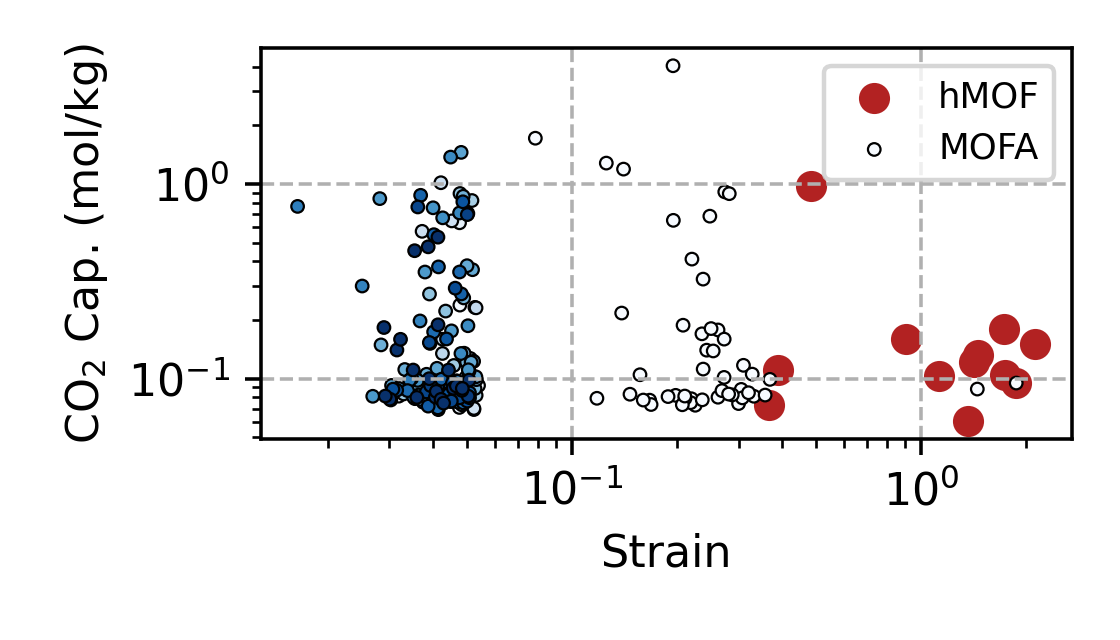
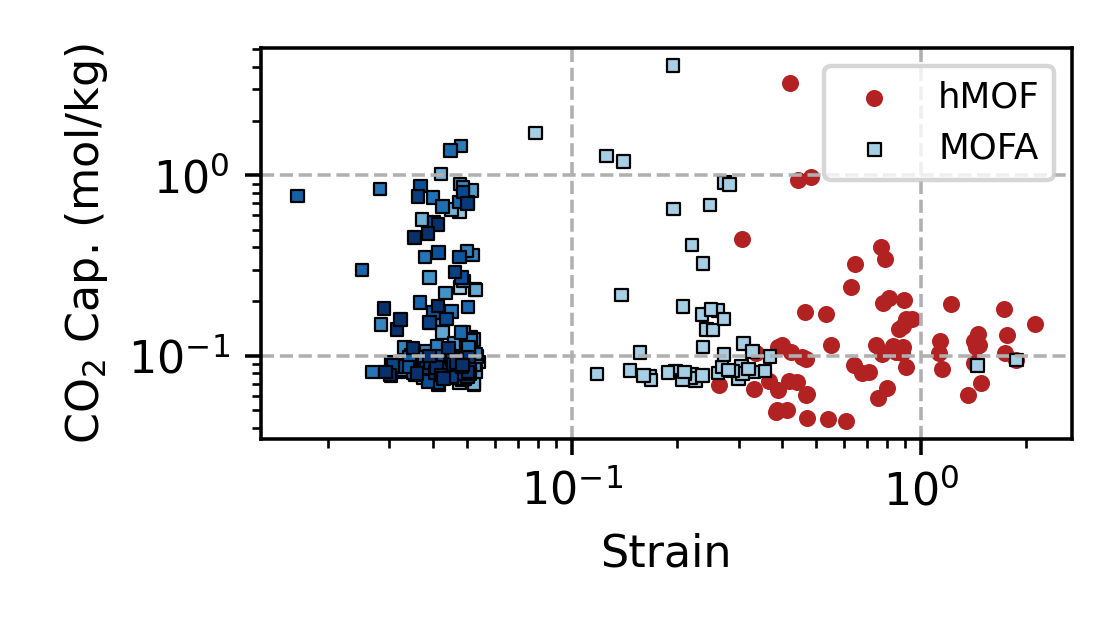
Update plots and codes to compute gas capacity

diff --git a/scripts/0_initialize-database/2_compute-gas-capacity.py b/scripts/0_initialize-database/2_compute-gas-capacity.py
@@ -14,12 +14,12 @@ if __name__ == "__main__":
     # Load what we've done already
     output_path = Path('capacity.jsonl')
     if output_path.exists():
-        done = dict(pd.read_json('charges.jsonl', lines=True)[['mof', 'steps']].values)
+        done = list(map(tuple, pd.read_json('capacity.jsonl', lines=True)[['mof', 'opt_steps']].values.tolist()))
     else:
         done = set()
 
     # Make a parsl executor
-    config = Config(executors=[HighThroughputExecutor(max_workers_per_node=6, cpu_affinity='block')])
+    config = Config(executors=[HighThroughputExecutor(max_workers_per_node=6, cpu_affinity='list:0:1:2:3:4:5')])
     with load(config):
 
         # Run what we have not
@@ -42,11 +42,15 @@ if __name__ == "__main__":
             futures.append(future)
 
         for future in tqdm(as_completed(futures), total=len(futures)):
-            mean, std = future.result()
-            with output_path.open('a') as fp:
-                print(json.dumps({
-                    'mof': future.row['mof'],
-                    'opt_steps': future.row['steps'],
-                    'mean': mean,
-                    'std': std
-                }), file=fp)
+            try:
+                mean, std = future.result()
+                with output_path.open('a') as fp:
+                    print(json.dumps({
+                        'mof': future.row['mof'],
+                        'opt_steps': future.row['steps'],
+                        'mean': mean,
+                        'std': std
+                    }), file=fp)
+            except:
+                print(f'{future.row["mof"]} failed')
+                continue

diff --git a/scripts/0_initialize-database/1_compute-stability-from-hmof.py b/scripts/0_initialize-database/1_compute-stability-from-hmof.py
@@ -60,7 +60,7 @@ if __name__ == "__main__":
     if args.config == "local":
         lammps_cmd = ['/home/lward/Software/lammps-2Aug2023/build/lmp', '-sf', 'omp']
         lammps_env = {}
-        config = Config(executors=[HighThroughputExecutor(max_workers_per_node=1, cpu_affinity='block')])
+        config = Config(executors=[HighThroughputExecutor(max_workers_per_node=2, cpu_affinity='list:0-3:4-7')])
     elif args.config == "polaris":
         lammps_cmd = ('/lus/eagle/projects/ExaMol/mofa/lammps-2Aug2023/build-kokkos-nompi/lmp '
                       '-k on g 1 -sf kk').split()
